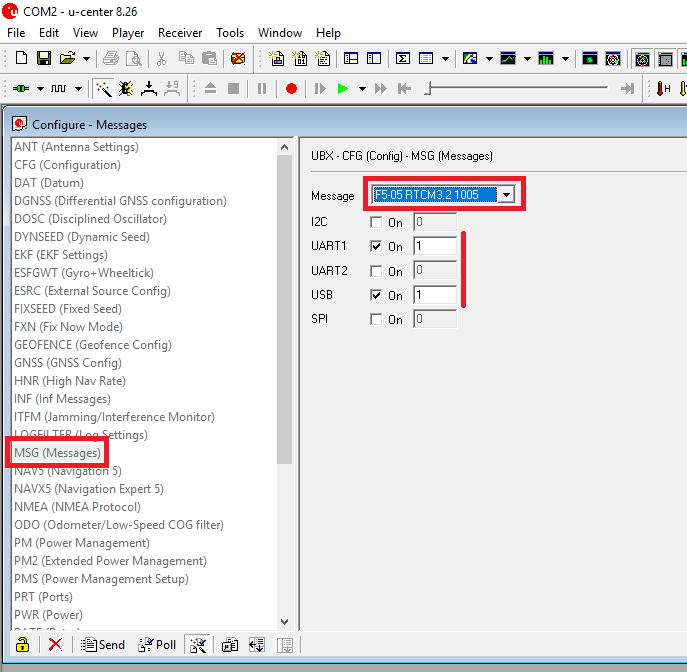
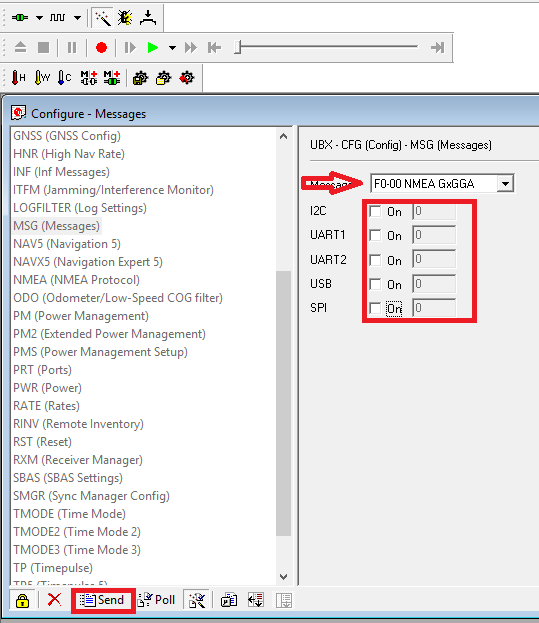
GitBook: [master] 2 pages and 5 assets modified

Changed region(s): [[0.0, 0.0, 1.0, 1.0]]

diff --git a/rover/configure.md b/rover/configure.md
@@ -24,17 +24,17 @@ _Note : After any modification made in the Configuration panel, always remember 
 
 In the Configuration panel, scroll down to the _PRT \(Port\)_  section. Here, you need to enter **your autopilot's GPS port's baudrate** to allow it to communicate correctly. It is necessary, as the link between your GPS and the telemetry is purely serial, and there's no other protocol to stipulate a baudrate.
 
-![Conf picture](https://github.com/drotek/doc-rtk/tree/062dfb4b3ecf5849b83896a829bb557ce7362f88/rover/images/conf/1.png?raw=true)
+![](../.gitbook/assets/1%20%281%29.png)
 
 It is also necessary to modify the frequency of the chip. To do this, on the left panel, look for the _RATE \(Rates\)_ menu and modify the _Measurement period_ to 200 ms.
 
 _Don't forget to click Send!_
 
-![Conf picture](https://github.com/drotek/doc-rtk/tree/062dfb4b3ecf5849b83896a829bb557ce7362f88/rover/images/conf/2.png?raw=true)
+![](../.gitbook/assets/2.png)
 
 Next, get into the _MSG \(Messages\)_ menu and disable all NMEA messages.
 
-![Conf picture](https://github.com/drotek/doc-rtk/tree/062dfb4b3ecf5849b83896a829bb557ce7362f88/rover/images/conf/3.png?raw=true)
+![](../.gitbook/assets/3.png)
 
 After disabling the NMEA messages, you should also enable the following messages for the UART1 link:
 

diff --git a/base/configure.md b/base/configure.md
@@ -16,13 +16,13 @@ First of all, install the UCenter software on your computer. When done, you can 
 
 After connecting, you should be able to enter the Configuration view from the top hotbar.
 
-![](../.gitbook/assets/2.png)
+![](../.gitbook/assets/2%20%281%29.png)
 
 _Note : After any modification made in the Configuration panel, always remember to hit the Send button at the bottom of the configuration view panel, or your modifications won't be stored!_
 
 In this menu, scroll down on the left panel to find the _MSG \(Messages\)_ menu. There, open the slide down menu and pick the RTCM1005 messages. After that, check both UART1 and USB checkboxes and click on the _Send_ button.
 
-![](../.gitbook/assets/3.png)
+![](../.gitbook/assets/3%20%281%29.png)
 
 You must repeat these steps for the _RTCM1077_, _RTCM1087_ and _RTCM1127_ messages \(respectively GPS, GLONASS and BEIDOU raw data\) without omitting to hit the _Send_ button each time, or your changes won't be applied. Checking both UART1 and USB checkboxes will allow the chip to send the messages either from USB or UART1, depending on your system setup.
 
